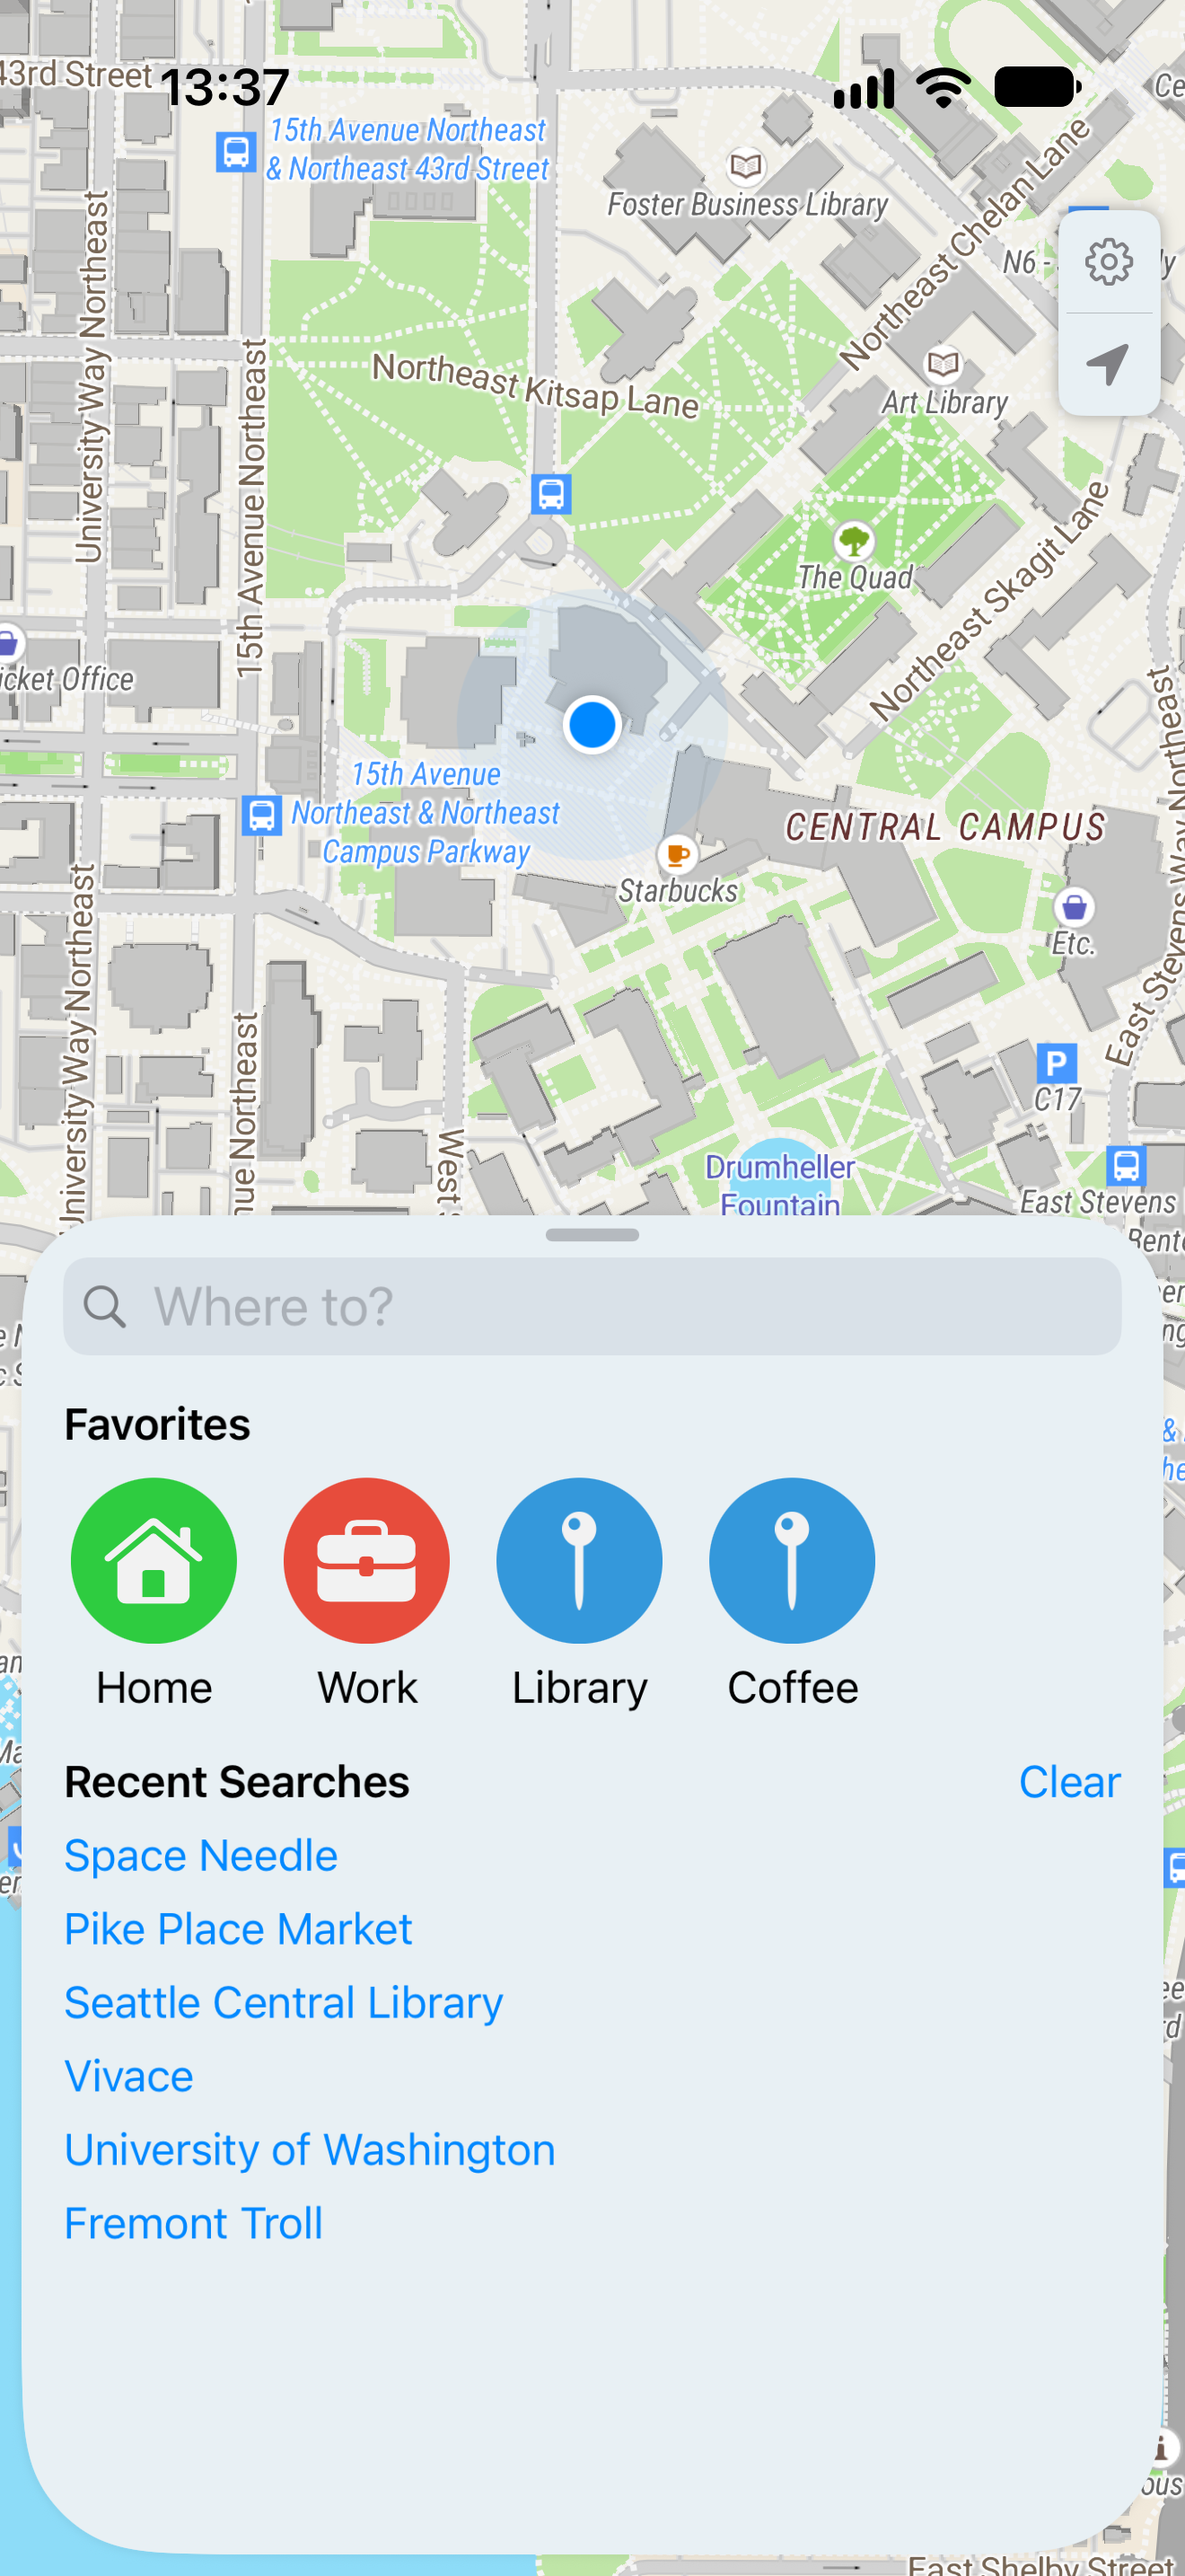
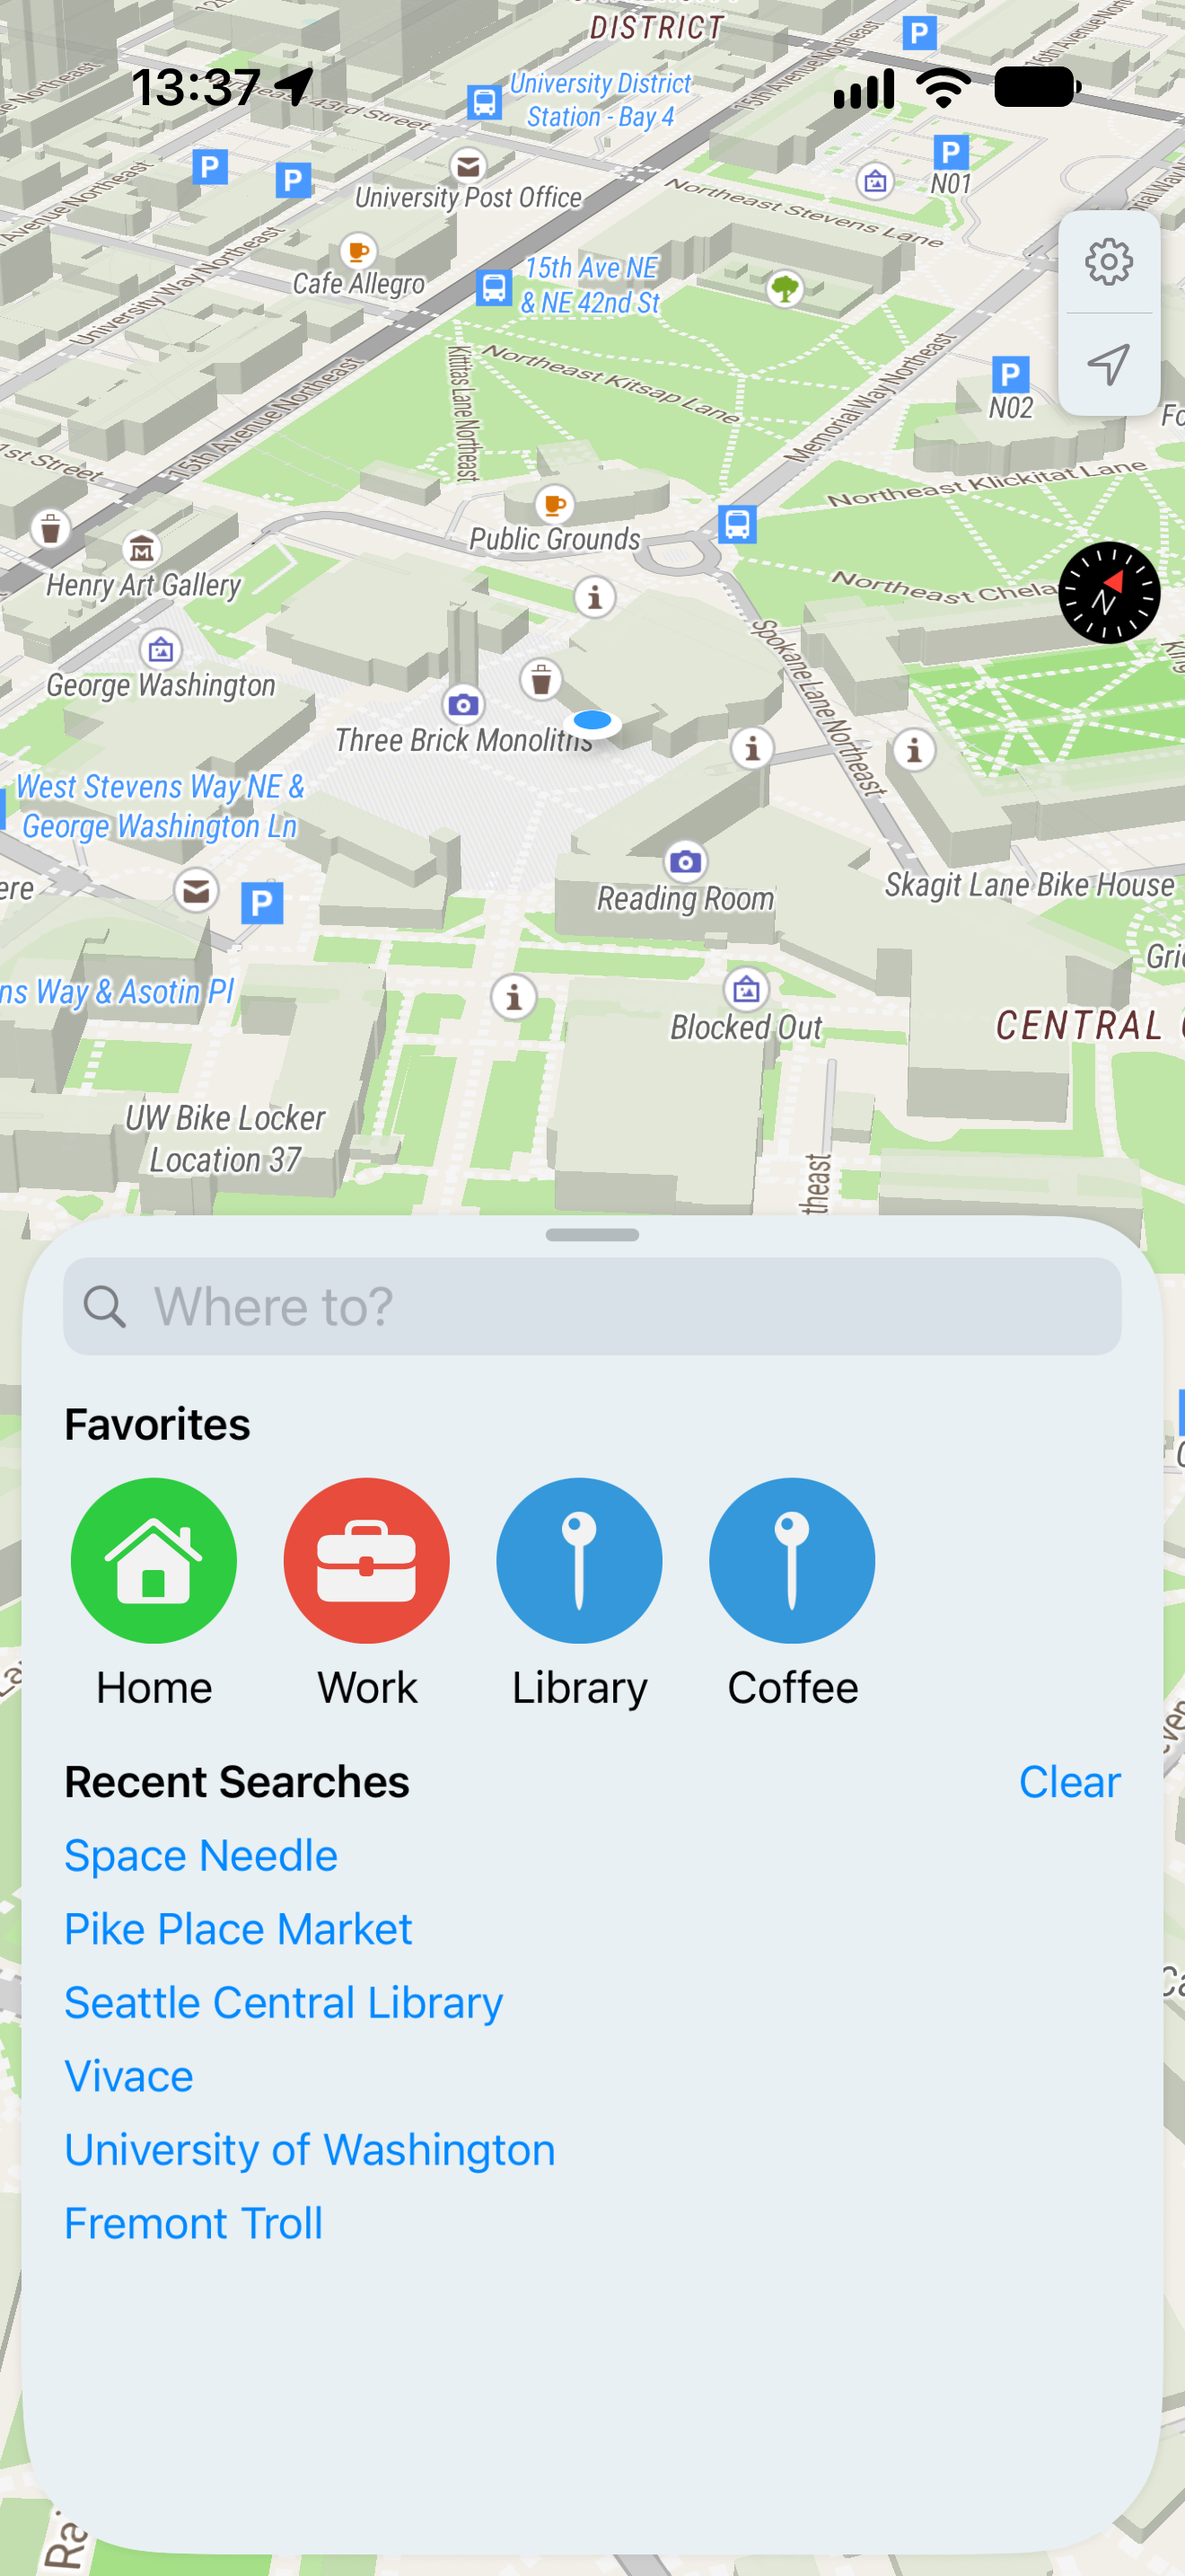
Frame screenshots to show 3D buildings and the whole trip

diff --git a/maps.earthUITests/ScreenshotTests.swift b/maps.earthUITests/ScreenshotTests.swift
@@ -27,14 +27,14 @@ final class ScreenshotTests: XCTestCase {
     app.launchArguments += ["-screenshotTrain", "YES"]
     app.launch()
     XCTAssert(app.staticTexts["Favorites"].waitForExistence(timeout: 30))
-    app.buttons.matching(NSPredicate(format: "label CONTAINS[c] 'location'")).firstMatch.tap()
-    sleep(4)
-    // Locating centers the user above the sheet; zoom in a level to show the campus.
-    app.coordinate(withNormalizedOffset: CGVector(dx: 0.5, dy: 0.281)).doubleTap()
+    // Looking across campus at Suzzallo Library.
+    show(viewport: "17/47.6563/-122.3093/330/60")
     try snapshot("01-home")
 
     XCUIDevice.shared.system.open(URL(string: "mapsearth:///place/\(Self.spaceNeedle)")!)
     XCTAssert(app.buttons["Directions"].waitForExistence(timeout: 30))
+    // Looking past the Space Needle toward downtown.
+    show(viewport: "16.3/47.6196/-122.3488/160/60")
     try snapshot("02-place-details")
 
     XCUIDevice.shared.system.open(
@@ -49,17 +49,8 @@ final class ScreenshotTests: XCTestCase {
     // Vehicle markers are buttons labeled with their route, like "2 Line".
     let train = app.buttons.matching(NSPredicate(format: "label ENDSWITH ' Line'")).firstMatch
     XCTAssert(train.waitForExistence(timeout: 30))
-    // Move the train clear of the status bar and the map buttons, so its callout isn't covered.
-    let target = CGPoint(x: app.frame.width * 0.62, y: app.frame.height * 0.2)
-    let offset = CGVector(dx: target.x - train.frame.midX, dy: target.y - train.frame.midY)
-    let dragStart = app.coordinate(withNormalizedOffset: CGVector(dx: 0.3, dy: 0.2))
-    dragStart.press(
-      forDuration: 0.5,
-      thenDragTo: dragStart.withOffset(offset),
-      withVelocity: .slow,
-      // Holding before release keeps the map from flinging on past the drag.
-      thenHoldForDuration: 0.5)
-    sleep(1)
+    // The whole trip, with room above the train for its callout.
+    show(viewport: "10.4/47.6379/-122.327")
     train.tap()
     try snapshot("03-transit-bike-directions")
 
@@ -78,9 +69,20 @@ final class ScreenshotTests: XCTestCase {
     // Navigation covers the trip list rather than replacing it.
     let covered = expectation(for: NSPredicate(format: "isHittable == false"), evaluatedWith: go)
     wait(for: [covered], timeout: 10)
-    // Let the simulated ride get underway, and the 3D buildings load in.
-    sleep(15)
+    // Let the simulated ride get underway.
+    sleep(10)
+    app.pinch(withScale: 2, velocity: 1)
+    // Let the 3D buildings load in.
+    sleep(5)
     try snapshot("05-navigation")
+  }
+
+  /// Moves the map to a `#map=zoom/lat/lng[/bearing[/pitch]]` viewport, leaving the sheet as is.
+  func show(viewport: String) {
+    // Let any zoom to the sheet's content finish first, so it doesn't override the viewport.
+    sleep(2)
+    XCUIDevice.shared.system.open(URL(string: "mapsearth:///#map=\(viewport)")!)
+    sleep(1)
   }
 
   func snapshot(_ name: String) throws {
